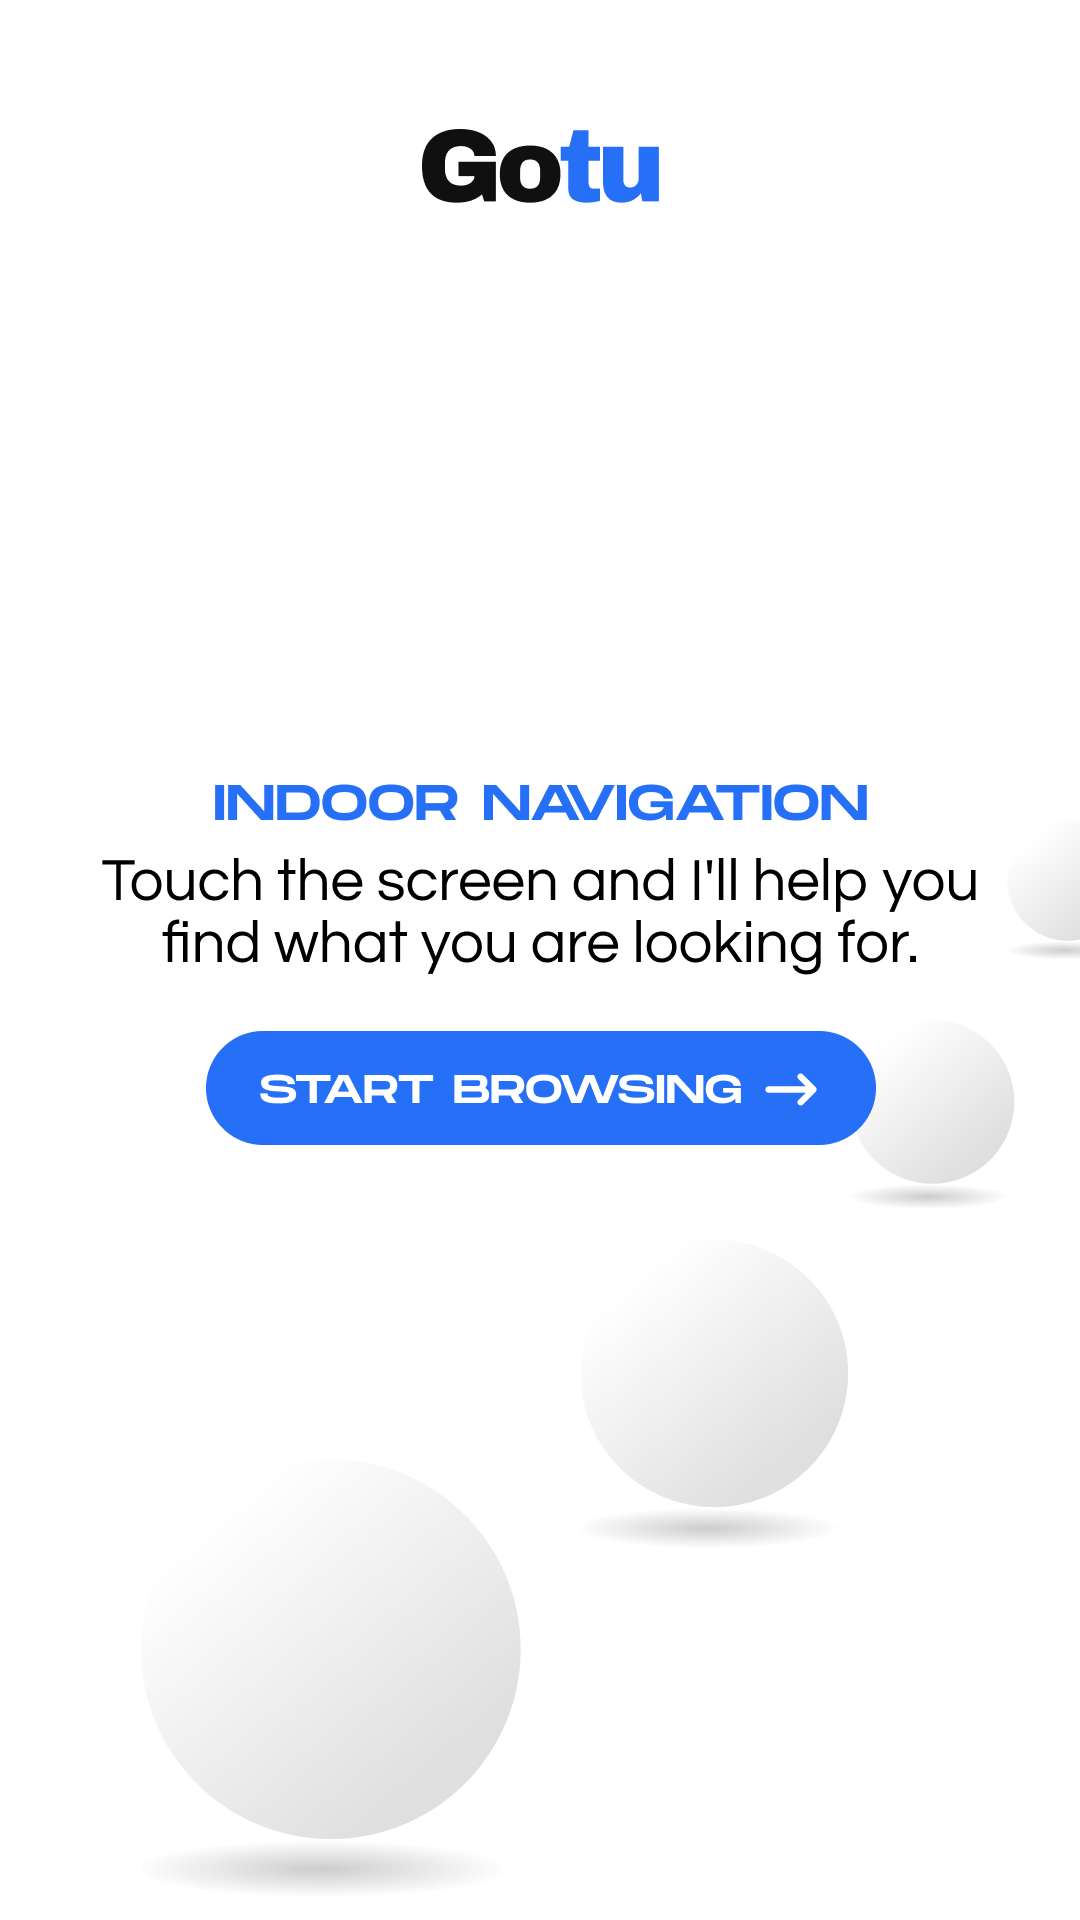
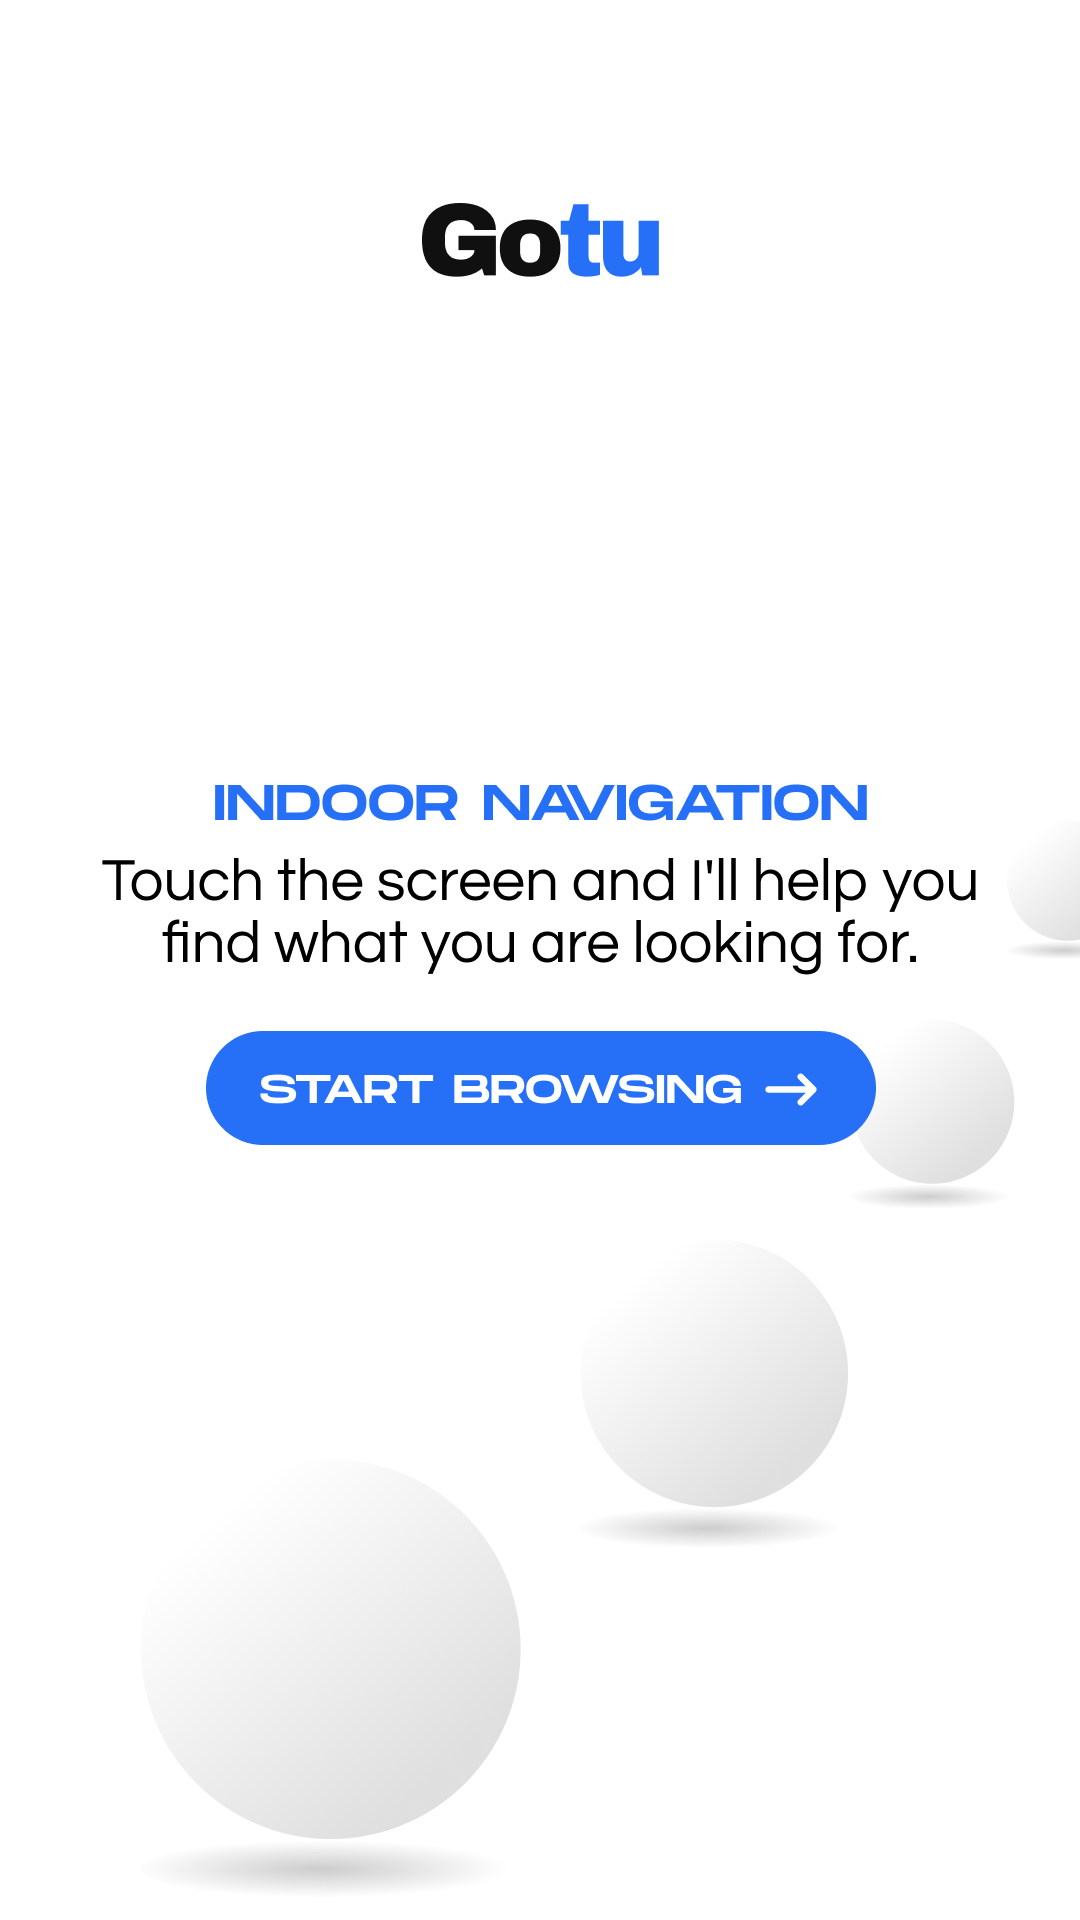
Battery sdk call updated

Changed region(s): [[0.3667, 0.0625, 0.6111, 0.1562]]

diff --git a/RobotGUI/src/gotu/screens/MainScreen.tsx b/RobotGUI/src/gotu/screens/MainScreen.tsx
@@ -27,14 +27,15 @@ import {
   resetInactivityTimer 
 } from '../utils/inactivityTimer';
 import DeviceStorage from '../../utils/deviceStorage';
+import PadbotUtils from '../utils/PadbotUtils';
 
 // Access the global object in a way that works in React Native
 const globalAny: any = global;
 
 // Speed settings from config
 const SPEEDS = {
-  patrol: 0.3,      // Default patrol speed if config not available
-  productSearch: 0.7, // Default product search speed if config not available
+  patrol: 0.2,      // Default patrol speed if config not available
+  productSearch: 0.5, // Default product search speed if config not available
   default: 0.5      // Default speed for other operations
 };
 
@@ -172,15 +173,15 @@ globalAny.startPromotion = async () => {
   
   // Reset the remountFromConfig flag to ensure promotion starts even when coming from config screen
   remountFromConfig = false;
-  /*
+  
   // Set robot speed to patrol speed immediately
   try {
-    await NativeModules.SlamtecUtils.setMaxLineSpeed(SPEEDS.patrol.toString());
+    await NativeModules.SlamtecUtils.setRobotSpeedSdk(SPEEDS.patrol);
     await LogUtils.writeDebugToFile(`Set robot speed to patrol mode: ${SPEEDS.patrol} m/s`);
   } catch (error: any) {
     await LogUtils.writeDebugToFile(`Failed to set patrol speed: ${error.message}`);
   }
-  */
+  
   // If the MainScreen is mounted, we can start the promotion immediately
   if (promotionMounted) {
     await LogUtils.writeDebugToFile('MainScreen is mounted, starting promotion immediately');
@@ -270,17 +271,17 @@ const MainScreen = ({ onClose, onConfigPress, initialProducts }: MainScreenProps
   const handleBatteryStatusUpdate = async (event: any) => {
     await LogUtils.writeDebugToFile(`[BATTERY] Battery status update event received`);
 
-    // Get power status first as it's our source of truth
+    // Get battery status using PadbotUtils
     try {
-      const powerStatus = await NativeModules.SlamtecUtils.getPowerStatus();
-      await LogUtils.writeDebugToFile(`[BATTERY] Power status response: ${JSON.stringify(powerStatus)}`);
+      const batteryStatus = await PadbotUtils.getBatteryStatus();
+      await LogUtils.writeDebugToFile(`[BATTERY] Battery status response: ${JSON.stringify(batteryStatus)}`);
       
-      // Set battery level from power status immediately
-      setBatteryLevel(powerStatus.batteryPercentage);
-      await LogUtils.writeDebugToFile(`[BATTERY] Battery level updated to: ${powerStatus.batteryPercentage}%`);
+      // Set battery level from battery status
+      setBatteryLevel(batteryStatus.percentage);
+      await LogUtils.writeDebugToFile(`[BATTERY] Battery level updated to: ${batteryStatus.percentage}%`);
       
-      // Only proceed if not on dock AND battery is low
-      if (powerStatus.dockingStatus !== 'on_dock' && powerStatus.batteryPercentage <= 20 && !isReturningToChargerRef.current) {
+      // Only proceed if we have a valid battery percentage (>0), not charging, and battery is low
+      if (batteryStatus.percentage > 0 && !batteryStatus.charging && batteryStatus.percentage <= 20 && !isReturningToChargerRef.current) {
         await LogUtils.writeDebugToFile('Initiating return to charger due to low battery');
         
         // Cancel any ongoing patrol
@@ -302,8 +303,8 @@ const MainScreen = ({ onClose, onConfigPress, initialProducts }: MainScreenProps
         handleReturnToList();
       }
     } catch (error) {
-      console.error('Error checking power status:', error);
-      LogUtils.writeDebugToFile('Error checking power status: ' + error);
+      console.error('Error checking battery status:', error);
+      LogUtils.writeDebugToFile('Error checking battery status: ' + error);
     }
   };
 
@@ -409,15 +410,15 @@ const MainScreen = ({ onClose, onConfigPress, initialProducts }: MainScreenProps
         
         // Set navigation status to PATROL immediately to show the promotion screen
         setNavigationStatus(NavigationStatus.PATROL);
-        /*
+        
         // Set robot speed to patrol speed
         try {
-          await NativeModules.SlamtecUtils.setMaxLineSpeed(SPEEDS.patrol.toString());
+          await NativeModules.SlamtecUtils.setRobotSpeedSdk(SPEEDS.patrol);
           await LogUtils.writeDebugToFile(`Set robot speed to patrol mode: ${SPEEDS.patrol} m/s`);
         } catch (error: any) {
           await LogUtils.writeDebugToFile(`Failed to set patrol speed: ${error.message}`);
         }
-        */
+        
         // Start navigation with a small delay to ensure UI has updated
         setTimeout(() => {
           if (isMountedRef.current && !navigationCancelledRef.current) {
@@ -582,7 +583,7 @@ const MainScreen = ({ onClose, onConfigPress, initialProducts }: MainScreenProps
       // Set robot speed to patrol speed
       (async () => {
         try {
-          await NativeModules.SlamtecUtils.setMaxLineSpeed(SPEEDS.patrol.toString());
+          await NativeModules.SlamtecUtils.setRobotSpeedSdk(SPEEDS.patrol);
           await LogUtils.writeDebugToFile(`Set robot speed to patrol mode: ${SPEEDS.patrol} m/s when mounting`);
         } catch (error: any) {
           await LogUtils.writeDebugToFile(`Failed to set patrol speed when mounting: ${error.message}`);
@@ -820,15 +821,15 @@ const MainScreen = ({ onClose, onConfigPress, initialProducts }: MainScreenProps
     await LogUtils.writeDebugToFile(`Starting navigation to: ${product.name}`);
     setSelectedProduct(product);
     setNavigationStatus(NavigationStatus.NAVIGATING);
-    /*
+    
     // Set robot speed to product search speed (faster)
     try {
-      await NativeModules.SlamtecUtils.setMaxLineSpeed(SPEEDS.productSearch.toString());
+      await NativeModules.SlamtecUtils.setRobotSpeedSdk(SPEEDS.productSearch);
       await LogUtils.writeDebugToFile(`Set robot speed to product search mode: ${SPEEDS.productSearch} m/s`);
     } catch (error: any) {
       await LogUtils.writeDebugToFile(`Failed to set product search speed: ${error.message}`);
     }
-    */
+    
     const attemptNavigation = async (retryCount = 0) => {
       try {
         // Validate token before attempting navigation
@@ -1095,13 +1096,16 @@ const MainScreen = ({ onClose, onConfigPress, initialProducts }: MainScreenProps
         await navigateHome();
         await LogUtils.writeDebugToFile('Initiating return to charger');
 
-        // Check if robot is already on dock
-        const powerStatus = await NativeModules.SlamtecUtils.getPowerStatus();
-        if (powerStatus.dockingStatus === 'on_dock') {
+        // Check if robot is already charging
+        const batteryStatus = await PadbotUtils.getBatteryStatus();
+        if (batteryStatus.charging) {
           isReturningToChargerRef.current = false;
           setIsReturningToCharger(false);
           setNavigationStatus(NavigationStatus.IDLE);
-          await LogUtils.writeDebugToFile('Robot already on dock, resetting return to charger state');
+          await LogUtils.writeDebugToFile('Robot already charging, resetting return to charger state');
+          await stopPosePolling();
+          posePollingInProgress = false;
+          return;
         }
       }
       
@@ -1148,17 +1152,19 @@ const MainScreen = ({ onClose, onConfigPress, initialProducts }: MainScreenProps
         setNavigationStatus(NavigationStatus.NAVIGATING);
 
         // Start going home
-        //await NativeModules.SlamtecUtils.goHome();
         await navigateHome();
         await LogUtils.writeDebugToFile('Initiating return to charger in error handler');
 
-        // Check if robot is already on dock
-        const powerStatus = await NativeModules.SlamtecUtils.getPowerStatus();
-        if (powerStatus.dockingStatus === 'on_dock') {
+        // Check if robot is already charging
+        const batteryStatus = await PadbotUtils.getBatteryStatus();
+        if (batteryStatus.charging) {
           isReturningToChargerRef.current = false;
           setIsReturningToCharger(false);
           setNavigationStatus(NavigationStatus.IDLE);
-          await LogUtils.writeDebugToFile('Robot already on dock, resetting return to charger state');
+          await LogUtils.writeDebugToFile('Robot already charging, resetting return to charger state');
+          await stopPosePolling();
+          posePollingInProgress = false;
+          return;
         }
       }
     }
@@ -1524,8 +1530,8 @@ const MainScreen = ({ onClose, onConfigPress, initialProducts }: MainScreenProps
 
       // Check if robot is on dock while returning to charger
       if (isReturningToCharger) {
-        const powerStatus = await NativeModules.SlamtecUtils.getPowerStatus();
-        if (powerStatus.dockingStatus === 'on_dock') {
+        const batteryStatus = await PadbotUtils.getBatteryStatus();
+        if (batteryStatus.charging) {
           setIsReturningToCharger(false);
           setNavigationStatus(NavigationStatus.IDLE);
           await LogUtils.writeDebugToFile('Robot docked successfully, resetting return to charger state');
@@ -2080,38 +2086,38 @@ const MainScreen = ({ onClose, onConfigPress, initialProducts }: MainScreenProps
   let poseUploadInProgress = false;
 
   const BatteryIndicator = () => {
-    const [powerStatus, setPowerStatus] = useState<any>(null);
+    const [batteryStatus, setBatteryStatus] = useState<any>(null);
 
     useEffect(() => {
-      const updatePowerStatus = async () => {
+      const updateBatteryStatus = async () => {
         try {
-          const status = await NativeModules.SlamtecUtils.getPowerStatus();
-          setPowerStatus(status);
+          const status = await PadbotUtils.getBatteryStatus();
+          setBatteryStatus(status);
         } catch (error) {
-          console.error('Error getting power status:', error);
+          console.error('Error getting battery status:', error);
         }
       };
 
       // Update immediately
-      updatePowerStatus();
+      updateBatteryStatus();
 
       // Set up interval to update every 30 seconds
-      const interval = setInterval(updatePowerStatus, 30000);
+      const interval = setInterval(updateBatteryStatus, 30000);
 
       return () => clearInterval(interval);
     }, []);
 
-    if (!powerStatus) return null;
+    if (!batteryStatus) return null;
 
     return (
       <View style={styles.batteryContainer}>
         <View style={[
           styles.batteryIndicator,
-          powerStatus.batteryPercentage <= 20 ? styles.batteryLow :
-          powerStatus.batteryPercentage <= 50 ? styles.batteryMedium :
+          batteryStatus.percentage <= 20 ? styles.batteryLow :
+          batteryStatus.percentage <= 50 ? styles.batteryMedium :
           styles.batteryHigh
         ]}>
-          <Text style={styles.batteryText}>{Math.round(powerStatus.batteryPercentage)}%</Text>
+          <Text style={styles.batteryText}>{Math.round(batteryStatus.percentage)}%</Text>
         </View>
       </View>
     );
@@ -2126,8 +2132,8 @@ const MainScreen = ({ onClose, onConfigPress, initialProducts }: MainScreenProps
     const initializeContent = async () => {
       try {
         // Wait for initial battery status
-        const powerStatus = await NativeModules.SlamtecUtils.getPowerStatus();
-        if (powerStatus) {
+        const batteryStatus = await PadbotUtils.getBatteryStatus();
+        if (batteryStatus) {
           // Add delay before setting header ready
           setTimeout(() => {
             setIsHeaderReady(true);

diff --git a/RobotGUI/src/cactus/screens/SplashScreen.tsx b/RobotGUI/src/cactus/screens/SplashScreen.tsx
@@ -11,6 +11,7 @@ import {
 } from 'react-native';
 import { LogUtils } from '../utils/logging';
 import DeviceStorage from '../../utils/deviceStorage';
+import PadbotUtils from '../../gotu/utils/PadbotUtils';
 
 interface SplashScreenProps {
   onFinish: (products: any[], options?: { goToConfig?: boolean }) => void;
@@ -29,8 +30,8 @@ const SplashScreen = ({ onFinish }: SplashScreenProps): React.JSX.Element => {
 
     const checkDockStatus = async () => {
       try {
-        const powerStatus = await NativeModules.SlamtecUtils.getPowerStatus();
-        if (powerStatus.dockingStatus !== 'on_dock') {
+        const batteryStatus = await PadbotUtils.getBatteryStatus();
+        if (!batteryStatus.charging) {
           setShowDockDialog(true);
           setIsDocked(false);
           return false;

diff --git a/RobotGUI/src/gotu/screens/SplashScreen.tsx b/RobotGUI/src/gotu/screens/SplashScreen.tsx
@@ -33,8 +33,8 @@ const SplashScreen = ({ onFinish }: SplashScreenProps): React.JSX.Element => {
 
     const checkDockStatus = async () => {
       try {
-        const powerStatus = await NativeModules.SlamtecUtils.getPowerStatus();
-        if (powerStatus.dockingStatus !== 'on_dock') {
+        const batteryStatus = await PadbotUtils.getBatteryStatus();
+        if (!batteryStatus.charging) {
           setShowDockDialog(true);
           setIsDocked(false);
           return false;